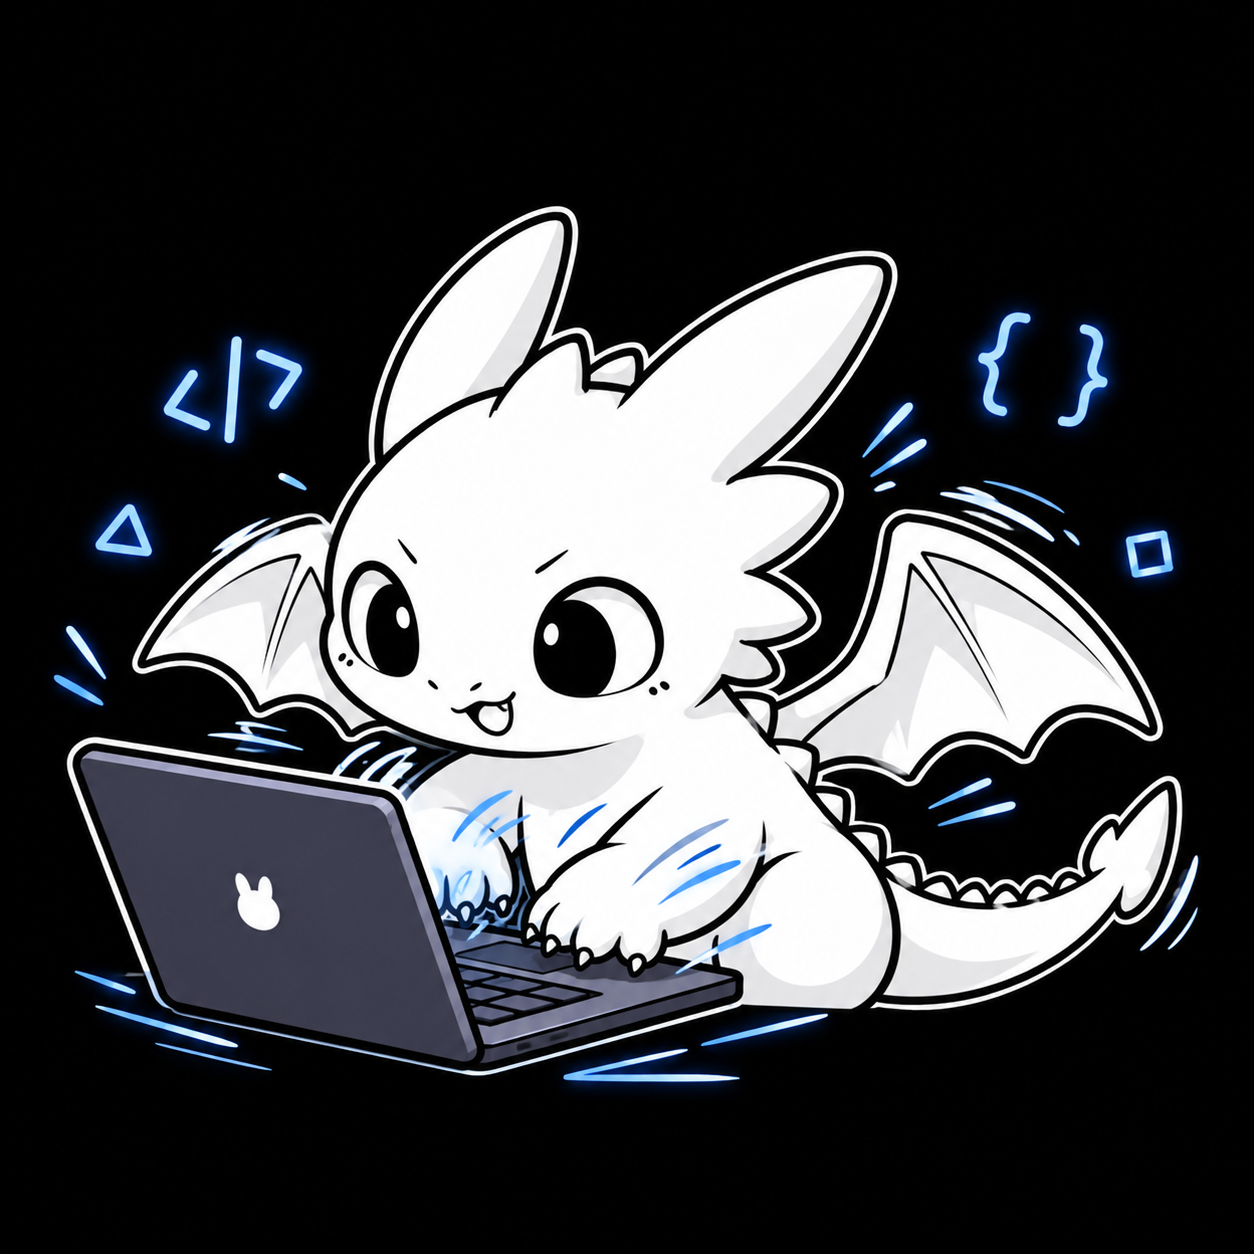
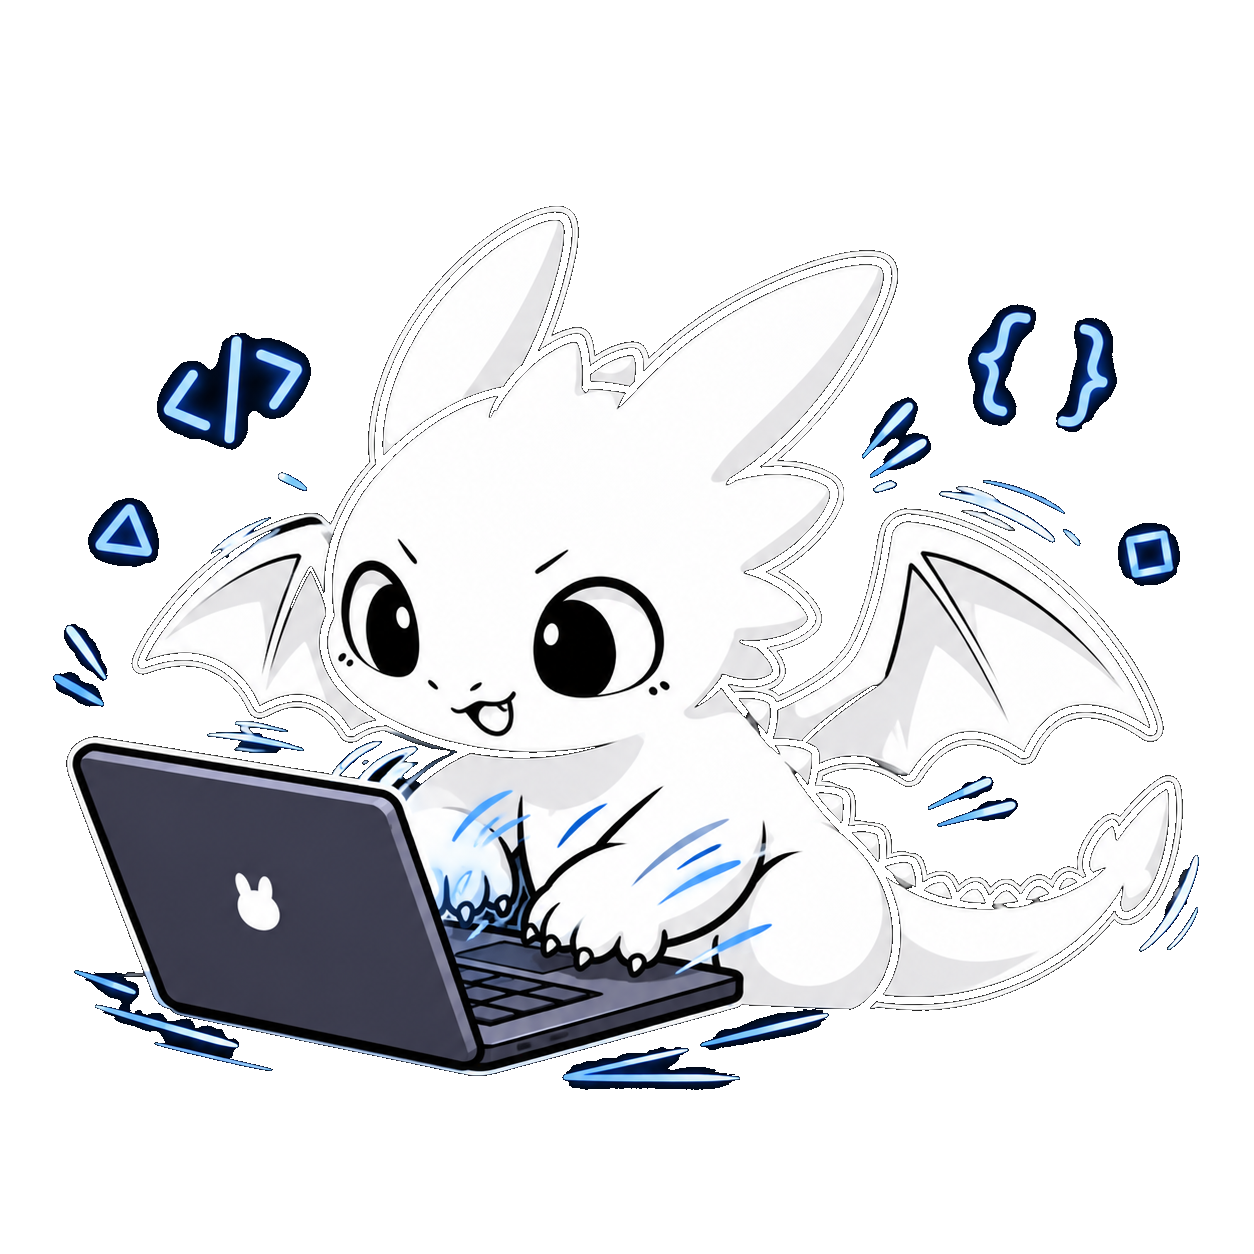
add event mascot assets and styles, and update image paths in events.html

diff --git a/events.html b/events.html
@@ -127,7 +127,7 @@
         <!-- The Flying Mascot (Driven smoothly by GSAP ScrollTrigger) -->
         <div class="guide-mascot" id="guide-mascot" aria-hidden="true">
           <div class="mascot-flight-inner">
-            <img src="assets/images/mascots/mascot-fly.png" alt="" width="1024" height="1024" />
+            <img src="assets/images/event-mascots/Brie-flying.png" alt="" width="1024" height="1024" />
           </div>
         </div>
 
@@ -138,7 +138,7 @@
           style="left: 25%; top: 8.75%; --station-accent: var(--ms-blue);">
           <div class="station-hub glass">
             <span class="station-num">01</span>
-            <img src="assets/images/mascots/mascot-wave.png" alt="MLSC Inauguration mascot" width="1024" height="1024" loading="lazy" />
+            <img src="assets/images/event-mascots/Brie-inaugaration.png" alt="MLSC Inauguration mascot" width="1024" height="1024" loading="lazy" />
           </div>
           <div class="station-card glass">
             <div class="station-card-title">MLSC Inauguration</div>
@@ -152,7 +152,7 @@
           style="left: 75%; top: 26.25%; --station-accent: var(--ms-green);">
           <div class="station-hub glass">
             <span class="station-num">02</span>
-            <img src="assets/images/mascots/mascot-laptop.png" alt="Tech Room mascot" width="1024" height="1024" loading="lazy" />
+            <img src="assets/images/event-mascots/Brie-Techroom.png" alt="Tech Room mascot" width="1024" height="1024" loading="lazy" />
           </div>
           <div class="station-card glass">
             <div class="station-card-title">Tech Room</div>
@@ -166,7 +166,7 @@
           style="left: 25%; top: 43.75%; --station-accent: var(--ms-yellow);">
           <div class="station-hub glass">
             <span class="station-num">03</span>
-            <img src="assets/images/mascots/mascot-book.png" alt="Praxis mascot" width="1024" height="1024" loading="lazy" />
+            <img src="assets/images/event-mascots/Brie-Praxis.png" alt="Praxis mascot" width="1024" height="1024" loading="lazy" />
           </div>
           <div class="station-card glass">
             <div class="station-card-title">Praxis</div>
@@ -180,7 +180,7 @@
           style="left: 75%; top: 61.25%; --station-accent: var(--ms-red);">
           <div class="station-hub glass">
             <span class="station-num">04</span>
-            <img src="assets/images/mascots/mascot-laptop.png" alt="Datathon mascot" width="1024" height="1024" loading="lazy" />
+            <img src="assets/images/event-mascots/Brie-Datathon.png" alt="Datathon mascot" width="1024" height="1024" loading="lazy" />
           </div>
           <div class="station-card glass">
             <div class="station-card-title">Datathon</div>
@@ -194,7 +194,7 @@
           style="left: 25%; top: 78.75%; --station-accent: var(--ms-green);">
           <div class="station-hub glass">
             <span class="station-num">05</span>
-            <img src="assets/images/mascots/mascot-fly.png" alt="Code Sprint mascot" width="1024" height="1024" loading="lazy" />
+            <img src="assets/images/event-mascots/Brie-Codesprint.png" alt="Code Sprint mascot" width="1024" height="1024" loading="lazy" />
           </div>
           <div class="station-card glass">
             <div class="station-card-title">Code Sprint</div>
@@ -208,7 +208,7 @@
           style="left: 75%; top: 96.25%; --station-accent: var(--ms-blue);">
           <div class="station-hub glass">
             <span class="station-num">06</span>
-            <img src="assets/images/mascots/mascot-fly.png" alt="Bluebit Hackathon mascot" width="1024" height="1024" loading="lazy" />
+            <img src="assets/images/event-mascots/Brie-Bluebit.png" alt="Bluebit Hackathon mascot" width="1024" height="1024" loading="lazy" />
           </div>
           <div class="station-card glass">
             <div class="station-card-title">Bluebit Hackathon</div>

diff --git a/css/events.css b/css/events.css
@@ -601,8 +601,8 @@ main {
   position: absolute;
   top: 8.75%;
   left: 25%;
-  width: 76px;
-  height: 76px;
+  width: 104px;
+  height: 104px;
   transform: translate(-50%, -50%);
   pointer-events: none;
   z-index: 25;
@@ -631,8 +631,8 @@ main {
 .roadmap-station {
   position: absolute;
   z-index: 15;
-  width: 70px;
-  height: 70px;
+  width: 106px;
+  height: 106px;
   transform: translate(-50%, -50%);
   text-decoration: none;
   cursor: pointer;
@@ -641,9 +641,9 @@ main {
 
 .station-hub {
   position: relative;
-  width: 70px;
-  height: 70px;
-  border-radius: 1.25rem;
+  width: 106px;
+  height: 106px;
+  border-radius: 1.5rem;
   background: rgba(16, 16, 16, 0.88);
   backdrop-filter: blur(16px);
   -webkit-backdrop-filter: blur(16px);
@@ -656,8 +656,8 @@ main {
 }
 
 .station-hub img {
-  width: 44px;
-  height: 44px;
+  width: 86px;
+  height: 86px;
   object-fit: contain;
   filter: drop-shadow(0 4px 10px rgba(0, 0, 0, 0.5));
   transition: transform 0.3s cubic-bezier(0.16, 1, 0.3, 1);
@@ -684,9 +684,9 @@ main {
   position: absolute;
   top: 50%;
   transform: translateY(-50%);
-  width: 175px;
-  padding: 10px 14px;
-  border-radius: 14px;
+  width: 215px;
+  padding: 13px 18px;
+  border-radius: 16px;
   background: rgba(14, 14, 14, 0.88);
   backdrop-filter: blur(16px);
   -webkit-backdrop-filter: blur(16px);
@@ -698,7 +698,7 @@ main {
 
 /* Odd stations (Left side): Card on outer LEFT */
 .roadmap-station:nth-of-type(odd) .station-card {
-  right: calc(100% + 18px);
+  right: calc(100% + 22px);
   left: auto;
   text-align: right;
 }
@@ -709,7 +709,7 @@ main {
 
 /* Even stations (Right side): Card on outer RIGHT */
 .roadmap-station:nth-of-type(even) .station-card {
-  left: calc(100% + 18px);
+  left: calc(100% + 22px);
   right: auto;
   text-align: left;
 }
@@ -720,7 +720,7 @@ main {
 
 .station-card-title {
   font-family: var(--font-display);
-  font-size: 13px;
+  font-size: 15px;
   font-weight: 700;
   color: #ffffff;
   line-height: 1.25;
@@ -730,7 +730,7 @@ main {
 .station-card-tag {
   margin-top: 3px;
   font-family: var(--font-mono);
-  font-size: 9px;
+  font-size: 9.5px;
   text-transform: uppercase;
   letter-spacing: 0.12em;
   color: var(--muted-foreground);
@@ -739,7 +739,7 @@ main {
 .station-card-cta {
   margin-top: 7px;
   font-family: var(--font-mono);
-  font-size: 9px;
+  font-size: 9.5px;
   font-weight: 600;
   color: var(--station-accent, #00a4ef);
   text-transform: uppercase;
@@ -790,41 +790,47 @@ main {
     display: none;
   }
   
+  .roadmap-station {
+    width: 76px;
+    height: 76px;
+  }
+
   .station-hub {
-    width: 54px;
-    height: 54px;
-    border-radius: 1rem;
+    width: 76px;
+    height: 76px;
+    border-radius: 1.25rem;
   }
 
   .station-hub img {
-    width: 32px;
-    height: 32px;
+    width: 58px;
+    height: 58px;
   }
 
   .station-card {
-    width: 120px;
-    padding: 6px 8px;
+    width: 145px;
+    padding: 8px 10px;
+    border-radius: 12px;
   }
 
   .station-card-title {
-    font-size: 11px;
+    font-size: 12px;
   }
 
   .station-card-tag {
-    font-size: 8px;
+    font-size: 8.5px;
   }
 
   .roadmap-station:nth-of-type(odd) .station-card {
-    right: calc(100% + 8px);
+    right: calc(100% + 10px);
   }
 
   .roadmap-station:nth-of-type(even) .station-card {
-    left: calc(100% + 8px);
+    left: calc(100% + 10px);
   }
 
   .guide-mascot {
-    width: 58px;
-    height: 58px;
+    width: 78px;
+    height: 78px;
   }
 }
 
